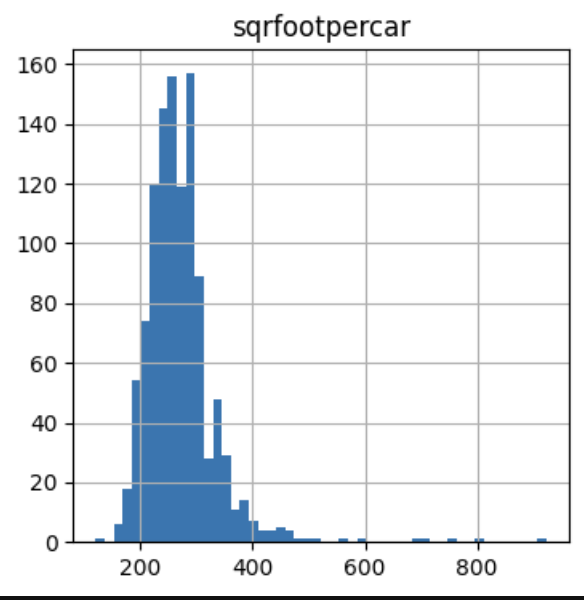
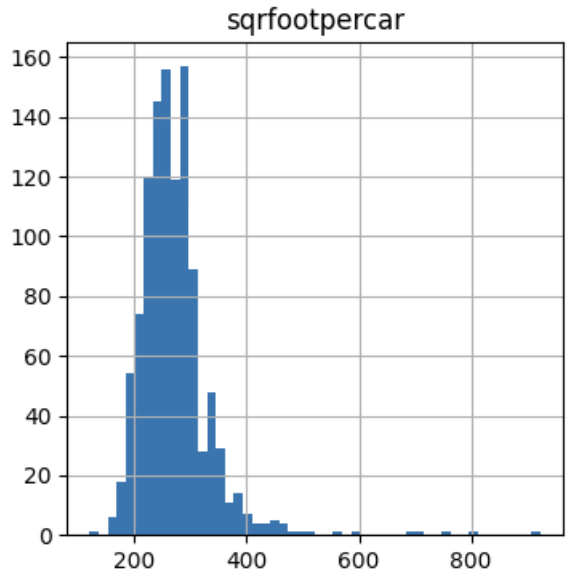
update reciprocal transformer

Changed region(s): [[0.0, 0.0, 1.0, 1.0]]

diff --git a/docs/user_guide/transformation/ReciprocalTransformer.rst b/docs/user_guide/transformation/ReciprocalTransformer.rst
@@ -5,8 +5,9 @@
 ReciprocalTransformer
 =====================
 
-A reciprocal transformation involves replacing each data value x, with its reciprocal, 1/x. This transformation is
-useful for addressing heteroscedasticity, where the variability of errors in a regression model differs across values
+A reciprocal transformation involves replacing each data value x, with its reciprocal, 1/x.
+
+This transformation is useful for addressing heteroscedasticity, where the variability of errors in a regression model differs across values
 of an independent variable, and for transforming skewed distributions into more symmetric ones. It can also linearise
 certain nonlinear relationships, making them easier to model with linear regression, and improve the overall fit of a
 linear model by reducing the influence of outliers or normalising residuals.
@@ -15,8 +16,8 @@ linear model by reducing the influence of outliers or normalising residuals.
 Applications
 ------------
 
-The reciprocal transformation is useful for ratios, where the values of a variable result from the division of two v
-ariables. Some examples include variables like student-teacher ratio (students per teacher) or crop yield (tons per acre).
+The reciprocal transformation is useful for ratios, where the values of a variable result from the division of two
+variables. Some examples include variables like student-teacher ratio (students per teacher) or crop yield (tons per acre).
 
 By calculating the inverse of these variables, we shift from representing students per teacher to teachers per student,
 or from tons per acre to acres per ton. This transformation still makes intuitive sense and can result in a better spread
@@ -30,22 +31,26 @@ Properties
 - The inverse of the reciprocal transformation is also the reciprocal transformation
 - The range of the reciprocal function includes all real numbers except 0
 
-Although in theory, the reciprocal function is defined for both positive and negative values, in practice, it's mostly
-used to transform strictly positive variables.
+.. note::
+
+    Although in theory, the reciprocal function is defined for both positive and negative values, in practice, it's mostly
+    used to transform strictly positive variables.
 
 
 ReciprocalTransformer
 ---------------------
 
-The :class:`ReciprocalTransformer` applies the reciprocal transformation to numerical variables. By default, it will
+:class:`ReciprocalTransformer` applies the reciprocal transformation to numerical variables. By default, it will
 find and transform all numerical variables in the dataset. A better practice would be to apply the transformer to a
 selected group of variables, which you can do by passing a list with the variable names to the `variables` parameter
 when setting up the transformer.
 
-If any of the variables contains 0 as value, the transformer will raise an error.
+.. note::
 
-Python examples
----------------
+    If any of the variables contains 0 as value, the transformer will raise an error.
+
+Python implementation
+---------------------
 
 In the next sections, we'll demonstrate how to apply the reciprocal transformation with :class:`ReciprocalTransformer`.
 
@@ -55,7 +60,6 @@ garage. Next, we'll separate the data into train and test sets:
 .. code:: python
 
     import matplotlib.pyplot as plt
-
     from sklearn.datasets import fetch_openml
     from sklearn.model_selection import train_test_split
     from feature_engine.transformation import ReciprocalTransformer
@@ -98,9 +102,9 @@ Let's plot the distribution of the variable with the square foot area per car in
 In the following image we can see the skewness of the variable:
 
 
-.. image:: ../../images/reciprocal_transformer/reciprocal_transfomer_original.png
-
-|
+.. figure::  ../../images/reciprocal_transformer/reciprocal_transfomer_original.png
+   :align:   center
+   :width: 350px
 
 Let's now apply the reciprocal transformation to this variable:
 
@@ -122,8 +126,9 @@ Finally, let's plot the distribution after the reciprocal transformation:
 In the following image, we see that the reciprocal transformation made the variable's values follow more closer a
 symmetric or normal distribution:
 
-.. image:: ../../images/reciprocal_transformer/reciprocal_transfomer_new.png
-
+.. figure::  ../../images/reciprocal_transformer/reciprocal_transfomer_new.png
+   :align:   center
+   :width: 350px
 
 Inverse transformation
 ~~~~~~~~~~~~~~~~~~~~~~
@@ -147,16 +152,17 @@ Let's check out the reverted transformation:
 As you can see in the following image, we obtained the original data by re-applying the reciprocal function to the
 transformed variable:
 
-.. image:: ../../images/reciprocal_transformer/reciprocal_transfomer_inverse.png
-
+.. figure::  ../../images/reciprocal_transformer/reciprocal_transfomer_inverse.png
+   :align:   center
+   :width: 350px
 
 Pipeline of transformations
 ~~~~~~~~~~~~~~~~~~~~~~~~~~~
 
-As we mentioned previously, the reciprocal transformation is suitable, in general for ratio variables, so we need to
+As we mentioned previously, the reciprocal transformation is suitable, in general, for ratio variables, so we need to
 transform other variables in the data set with other type of transformations.
 
-Let's not plot the distribution of the 3 variables in the original data to see which transformations could be suitable
+Let's plot the distribution of the 3 variables in the original data to see which transformations could be suitable
 for them:
 
 .. code:: python
@@ -172,12 +178,9 @@ distribution), and `GarageArea` is a continuous variable:
 |
 
 Let's then create a pipeline to apply the square root transformation to `GarageCounts` and the Box-Cox transformation
-to `GarageArea`, while applying the reciprocal transformation to "sqrfootpercar":
+to `GarageArea`, while applying the reciprocal transformation to `sqrfootpercar`:
 
 .. code:: python
-
-    from feature_engine.pipeline import Pipeline
-    from feature_engine.transformation import PowerTransformer, BoxCoxTransformer
 
     from feature_engine.pipeline import Pipeline
     from feature_engine.transformation import PowerTransformer, BoxCoxTransformer
@@ -195,7 +198,7 @@ Let's now fit the pipeline and transform the datasets:
     train_t = pipe.fit_transform(X_train)
     test_t = pipe.transform(X_test)
 
-And now, we can corroborate how these transformations improved the value spread across all variables by plotting the
+We can check out how these transformations changed the value spread across all variables by plotting the
 histograms for the transformed data:
 
 .. code:: python
@@ -210,7 +213,7 @@ symmetrically distributed across their value ranges:
 
 |
 
-An that's it! We've now applied different mathematical functions to stabilise the variance of the variables in the
+That's it! We've now applied different mathematical functions to stabilise the variance of the variables in the
 dataset.
 
 Alternatives to the reciprocal function